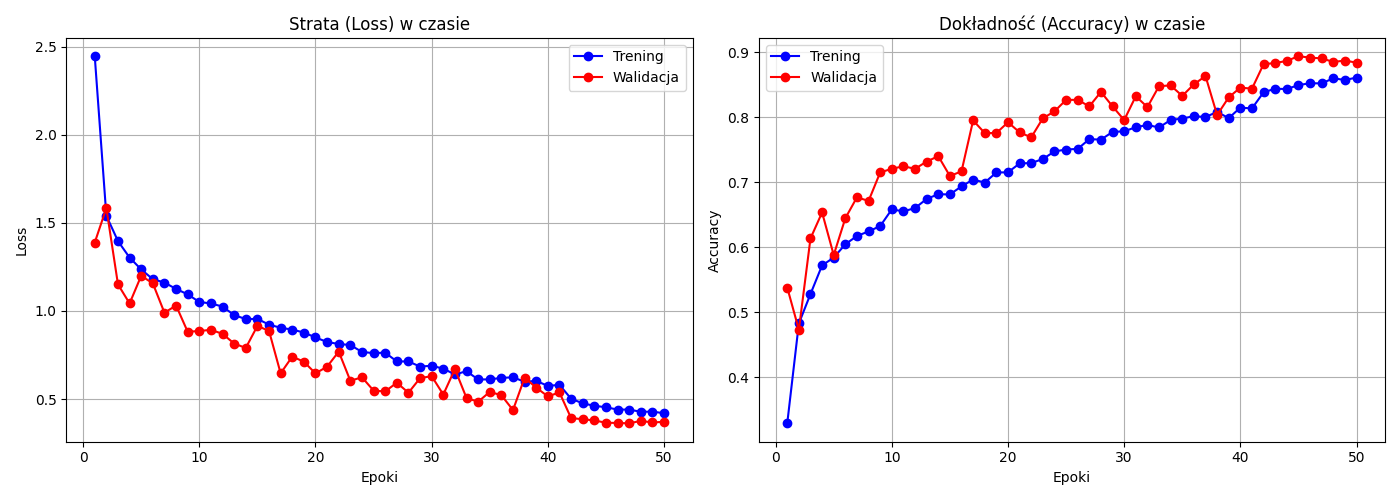
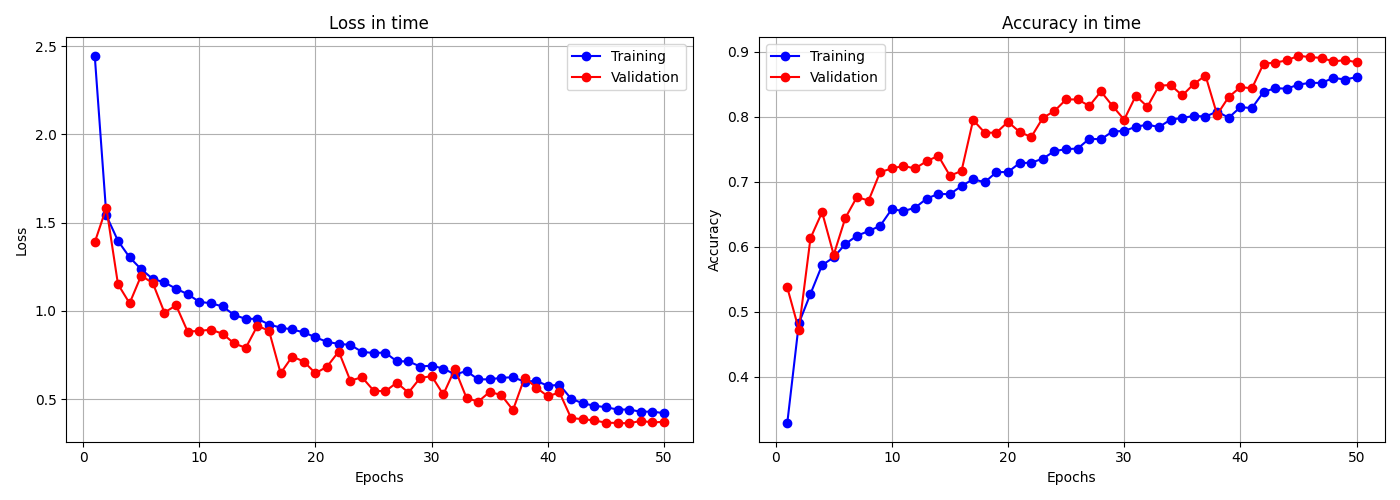
refactor: Make visualize plot with english labels

diff --git a/visualize.py b/visualize.py
@@ -6,7 +6,7 @@ def plot_training_results(history_path="history.json"):
         with open(history_path, "r") as f:
             history = json.load(f)
     except FileNotFoundError:
-        print(f"Błąd: Nie znaleziono pliku {history_path}. Czy trening się zakończył?")
+        print(f"Error file not found")
         return
 
     epochs = range(1, len(history['train_loss']) + 1)
@@ -14,19 +14,19 @@ def plot_training_results(history_path="history.json"):
     plt.figure(figsize=(14, 5))
 
     plt.subplot(1, 2, 1)
-    plt.plot(epochs, history['train_loss'], 'bo-', label='Trening')
-    plt.plot(epochs, history['val_loss'], 'ro-', label='Walidacja')
-    plt.title('Strata (Loss) w czasie')
-    plt.xlabel('Epoki')
+    plt.plot(epochs, history['train_loss'], 'bo-', label='Training')
+    plt.plot(epochs, history['val_loss'], 'ro-', label='Validation')
+    plt.title('Loss in time')
+    plt.xlabel('Epochs')
     plt.ylabel('Loss')
     plt.legend()
     plt.grid(True)
 
     plt.subplot(1, 2, 2)
-    plt.plot(epochs, history['train_acc'], 'bo-', label='Trening')
-    plt.plot(epochs, history['val_acc'], 'ro-', label='Walidacja')
-    plt.title('Dokładność (Accuracy) w czasie')
-    plt.xlabel('Epoki')
+    plt.plot(epochs, history['train_acc'], 'bo-', label='Training')
+    plt.plot(epochs, history['val_acc'], 'ro-', label='Validation')
+    plt.title('Accuracy in time')
+    plt.xlabel('Epochs')
     plt.ylabel('Accuracy')
     plt.legend()
     plt.grid(True)
